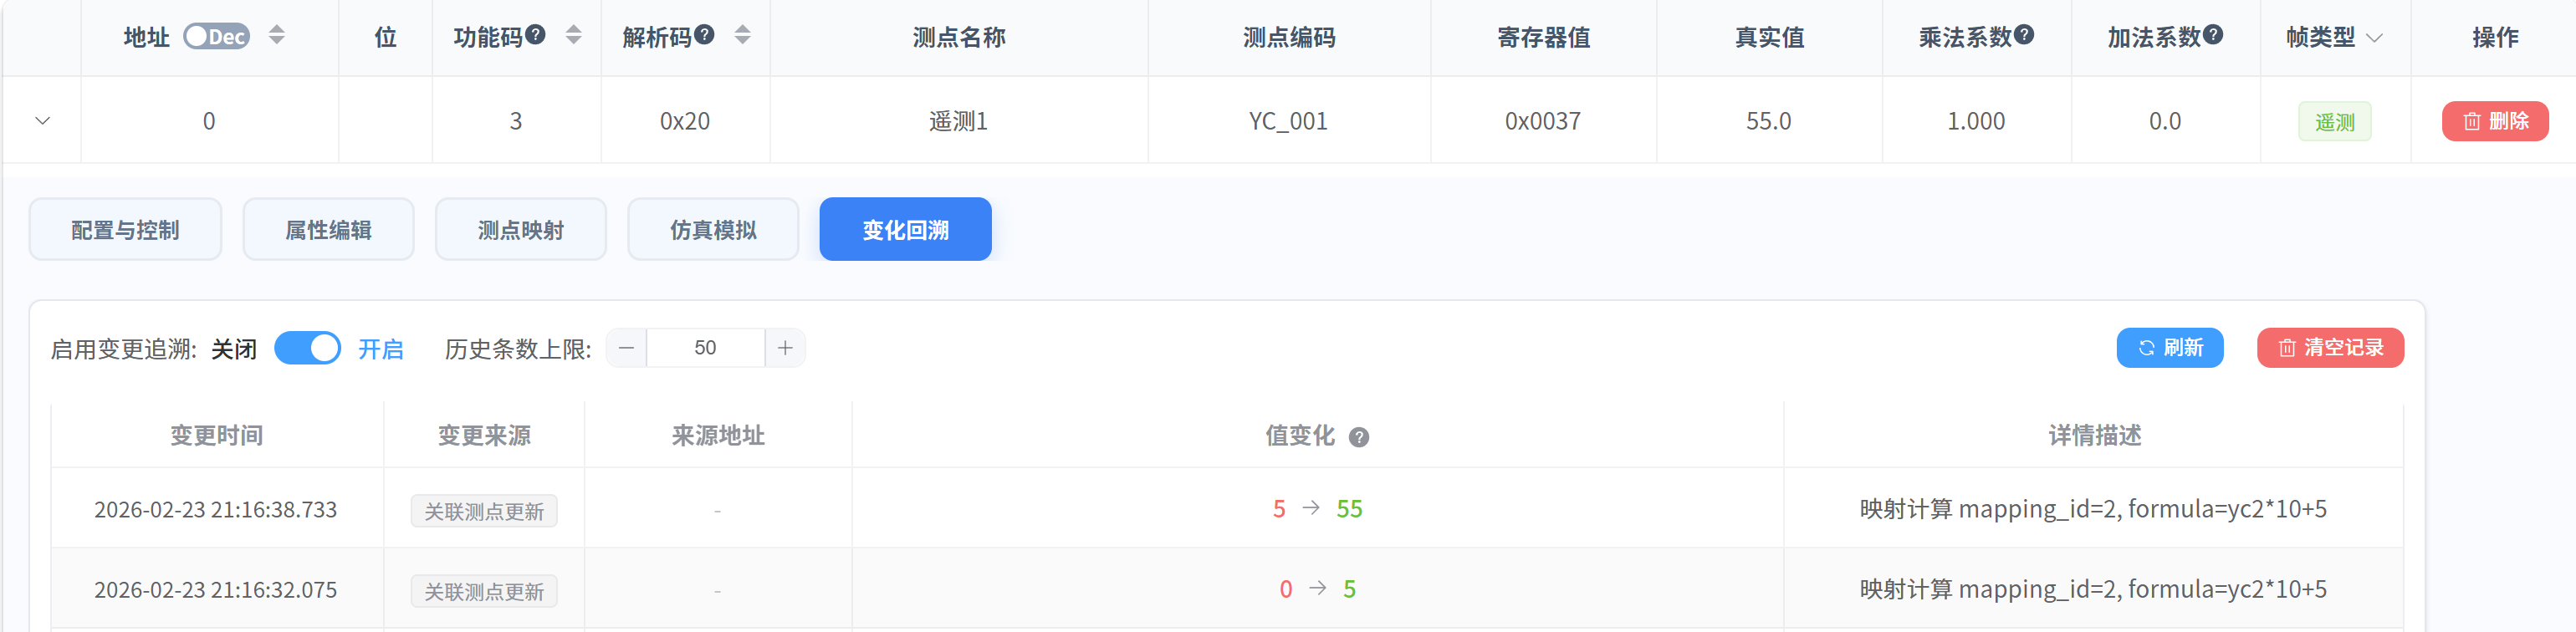
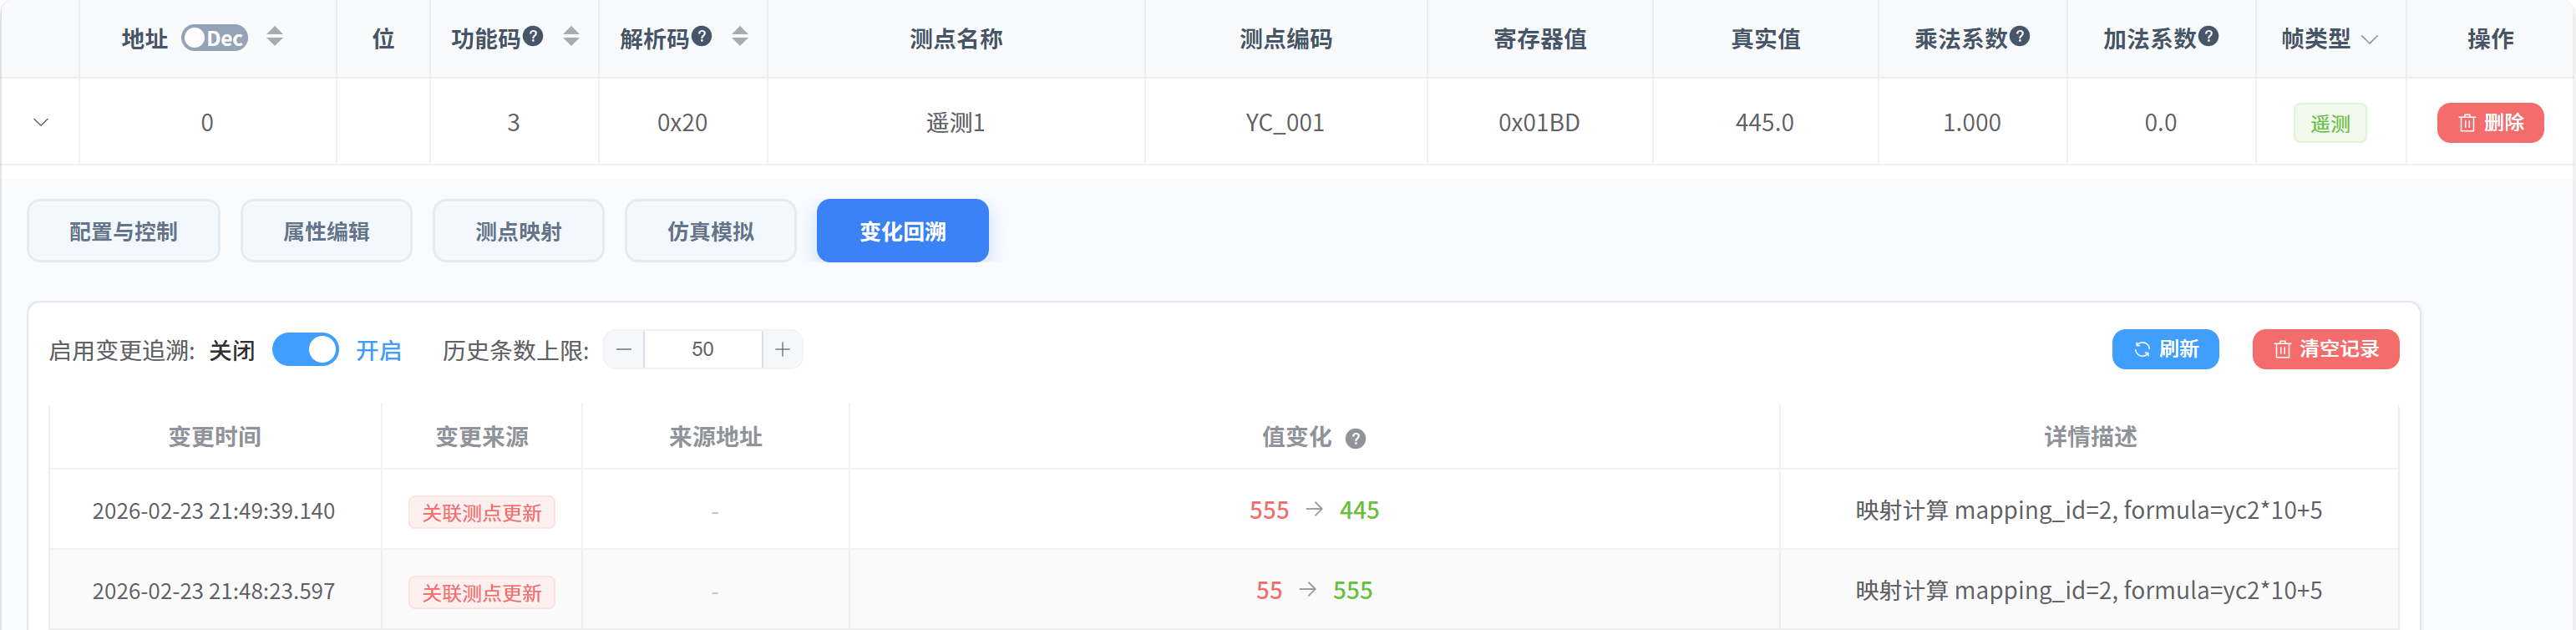
优化文档

diff --git a/docs/guide/about/project-introduction.md b/docs/guide/about/project-introduction.md
@@ -2,11 +2,11 @@
 
 ## 个人介绍
 
-本人2023年毕业后，一直在杭州某新能源企业从事储能EMS能源管理系统开发工作。
+本人2023年毕业后，一直在杭州某新能源企业从事储能EMS能源管理系统开发工作。中间遇到过不少坑，我经历过春节前两天还在远程部署调试EMS，也经历过五一五天假期全在加班交付的操蛋场景。我经历过夏天39度户外现场的高温拷打，也经历过深夜12点工厂里的星夜验证。调试工作可谓是贯彻了我这一整段研发生涯，占据了我一大半的开发时间，在被调试折磨得欲仙欲死后，我痛定思痛，决定开发一款EMS模拟设备管理系统，以减免我痛苦的调试工作，同时也可以更好地帮助我测试EMS。
 
-工作语言：C++、Python。
+**工作语言：**C++、Python。
 
-主要工作内容：
+**主要工作内容：**
 
 - Linux C++开发，Web后端
 - 电力通讯协议（Modbus、DL/T645-2007、IEC104、IEC61850）
@@ -50,10 +50,11 @@
 
      例子2：国外的某个项目需要用到黑启动功能，也就是电网失电，EMS需要自动将PCS从并网模式切换到离网模式。电网失电这个场景的模拟可以是电网频率和电流变为0，然后引发一系列测点联动的变化，普通的调试工具很难做到。
 
-- **项目目标**：这个项目希望达到什么样的效果？
+- **常见应用场景**：这个项目的应用场景有哪些？
 
-  1. 可以帮助EMS开发者更方便地进行系统测试。
-  2. 现在工商储一体柜EMS大多数都是发到现场插4g卡到工控机上，连上网后远程进行调试。考虑到这个场景，项目开发采用WEB版本，可以在网页上使用该模拟工具，加快现场远程调试进度，方便定位问题。
+  1. 可以帮助EMS进行压力测试，比如同时添加几十台设备，用以模拟储能户外柜多台并机的复杂场景，可以用来测试性能瓶颈。
+  2. 可以帮助EMS来测试各种策略，比如需量保护、逆功率保护、光伏策略、自动并离网等，需要配置好测点映射和使用测点模拟功能。
+  3. 现在工商储一体柜EMS大多数都是发到现场插4g卡到工控机上，连上网后远程进行调试。考虑到这个场景，项目开发采用WEB版本，可以在网页上使用该模拟工具，加快现场远程调试进度，方便定位问题。
 
 ### 联系方式
 